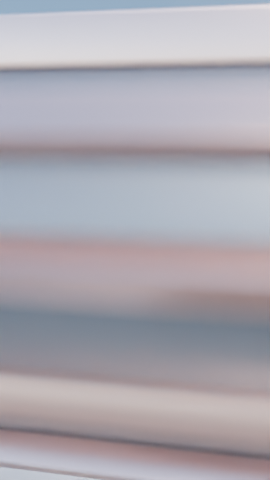
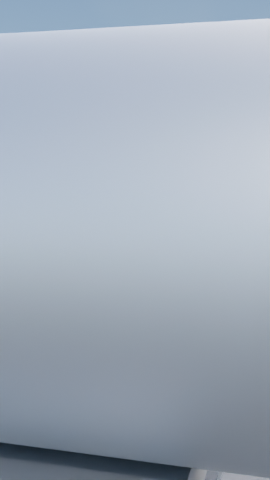
DEL74 R02: fix generator cut-away framing, keep case visible in C05, pass G4
Keep GEN_CASE/STATOR visible during C05 so the cutter ring reveals the
rotor, pull the C05 camera back and add a framing key, interlock coupler
knuckles with the locked 1 mm clearance, segment the crank into journals,
phase rear pinions. verify_scene: 0 collisions / 142 frames, camera
clearance 0.47 m. Manifest regenerated.

Claude-Session: https://claude.ai/code/session_016BNzFv8EHWPhKZDqoPuZAd

diff --git a/del74/src/build_scene.py b/del74/src/build_scene.py
@@ -348,7 +348,8 @@ def hide_intervals(objs, intervals):
     for a, b in intervals: h[(FR >= a) & (FR <= b)] = 1.0
     for ob in objs: anim.bake_fcurves(ob, FR, {'hide_render': h}, interp='CONSTANT')
 iso04 = [(394, 551)]; iso08 = [(865, 964)]
-hide_intervals([BODY, CAB, NOSE, DECK, BLOCK, CASE, STATOR, TERM, JBOX, CPL_L, KN_L] + list(C_CABLE.objects) + [o for o in C_ENGINE.objects if o.name.startswith('LINER')], iso04 + iso08)
+hide_intervals([BODY, CAB, NOSE, DECK, BLOCK, TERM, JBOX, CPL_L, KN_L] + list(C_CABLE.objects) + [o for o in C_ENGINE.objects if o.name.startswith('LINER')], iso04 + iso08)
+hide_intervals([CASE, STATOR], [(394, 487)] + iso08)   # C05(488–551)에는 케이스·고정자를 남겨 커터 링이 회전자를 드러낸다
 hide_intervals([ROTOR, SHAFT_C, FLANGE] + [o for o in C_GEN.objects if o.name.startswith('GEN_POLE')], iso08)
 hide_intervals([CRANK] + [o for o in C_ENGINE.objects if o.name.startswith(('PISTON', 'ROD', 'CRANK_'))], iso08)
 hide_intervals([BOGIE_R] + list(C_CARS.objects), iso04 + iso08)
